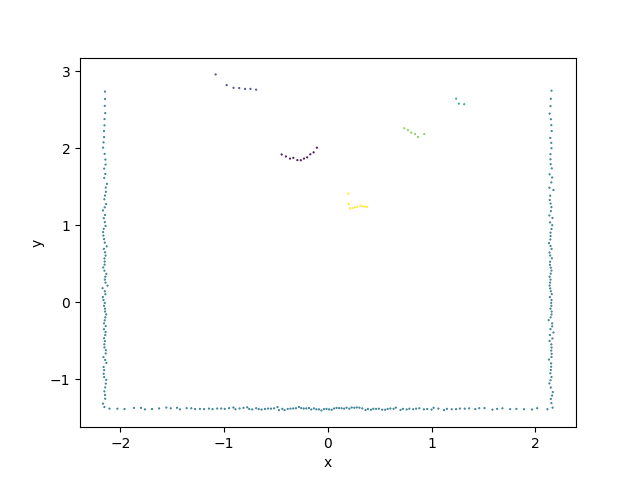
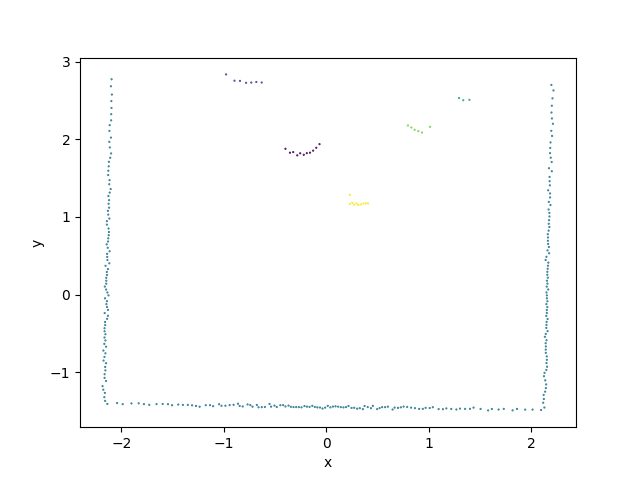
Started with RL

diff --git a/src/objectDetector.py b/src/objectDetector.py
@@ -79,19 +79,21 @@ class ObjectDetector:
             clusters.extend(tmp_clusters)
         return x, y, clusters
 
-    def transform_to_img(self, x, y):
+    def transform_to_img(self, x, y, clusters):
         import math
+        sizes = self.calculate_cluster_sizes(clusters)
 
         min_x = round(min(x), self.places)
         min_y = round(min(y), self.places)
 
         # Transform points to 0+ scale
-        x_, y_ = [], []
-        for x_coord, y_coord in zip(x, y):
+        x_, y_, clusters_ = [], [], []
+        for x_coord, y_coord, cluster in zip(x, y, clusters):
             x_coord = round(x_coord, self.places) + abs(min_x)
             y_coord = round(y_coord, self.places) + abs(min_y)
             x_.append(x_coord)
             y_.append(y_coord)
+            clusters_.append(cluster)
 
         # Calculate length, height
         max_x_ = max(x_)
@@ -108,7 +110,7 @@ class ObjectDetector:
 
         # Create a dictionary to save correspondence image coordinates -> pointcloud coordinates
         img_pc_coords = {}
-        for x_coord, y_coord in zip(x_, y_):
+        for x_coord, y_coord, c in zip(x_, y_, clusters_):
             # Get buckets
             x_bucket = int(x_coord)
             y_bucket = int(y_coord)
@@ -122,8 +124,11 @@ class ObjectDetector:
             assert type(x_img_coord) is int
             assert type(y_img_coord) is int
             image[x_img_coord, y_img_coord] = 255
-            key = (x_img_coord, y_img_coord)
-            img_pc_coords[key] = (x_coord, y_coord)
+
+            key = (y_img_coord, x_img_coord)
+            x_img_pc = x_coord - abs(min_x)
+            y_img_pc = y_coord - abs(min_y)
+            img_pc_coords[key] = (x_img_pc, y_img_pc, sizes[c])
 
         return image, img_pc_coords
 
@@ -136,11 +141,11 @@ class ObjectDetector:
 
     def find_cylinder(self, plot=False):
         x, y, clusters = self.exclude_walls(self.x, self.y, self.clusters)
-        image, img_pc_coords = self.transform_to_img(x, y)
+        image, img_pc_coords = self.transform_to_img(x, y, clusters)
         
         if plot:
             self.plot_pc_img(image)
-        cx, cy, radii = self.hough_transform(image)
+        cx, cy, radii = self.hough_transform(image, plot=plot)
         return self.transform_area_to_pc(cx, cy, radii, img_pc_coords)
 
     def detect_objs(self, x, y, clusters):
@@ -173,13 +178,16 @@ class ObjectDetector:
         return cx, cy, radii
 
     def transform_area_to_pc(self, cx, cy, radii, img_pc_coords):
-        x = [], y = []
+        x, y = [], []
+        cluster_size = 0
         for img_coords, pc_coords in img_pc_coords.items():
             # Point is in the selected area
-            if img_coords[0] in range(cx - radii, cx + radii) and img_coords[1] in range(cy - radii, cy + radii):
+            if img_coords[0] in range(int(cx - radii), int(cx + radii)) and img_coords[1] in range(int(cy - radii), int(cy + radii)):
                 x.append(pc_coords[0])
                 y.append(pc_coords[1])
-        return np.array((x, y)).T        
+                cluster_size = pc_coords[2]
+        X = np.array((x, y)).T
+        return X, cluster_size
 
     def calculate_point_dist(self, cluster, p):
         min_dist = 0
@@ -233,6 +241,10 @@ class ObjectDetector:
     def calculate_nr_clusters(self, clusters):
         nr_clusters = (max(clusters) + 1)
         return nr_clusters - min(clusters)
+
+    def calculate_cluster_sizes(self, clusters):
+        from collections import Counter
+        return Counter(clusters)
 
     def plot_clusters(self, x, y, clusters):
     #def plot_clusters(self, x, y, clusters, classification):

diff --git a/src/deepPusher.py b/src/deepPusher.py
@@ -1,17 +1,89 @@
 #!/usr/bin/env python3
-import rospy
+import gym
+from gym import wrappers
+
+import time
+import liveplot
+import numpy as np
+
+from rl import qlearn
+
+
+class Cylinder:
+    def __init__(self, points):
+        self.points = points
+
+    def set_points(self, points_n):
+        self.points = points_n
 
 class DeepPusher:
+    '''
+        DeepPusher class
+        @param objectDetector - class that provides the cylinder detection
+        @param state - variable that describes the behaviour that the robot must take
+
+        State 0 - Init state where we must search for a cylinder
+        State 1 - Registered a cylinder
+    '''
     def __init__(self, objectDetector):
         self.state = 0
         self.frequency = 10
         self.objDet = objectDetector
+        self.cylinder = Cylinder([])
 
-    def state_manager(self, counter):
-        if counter > 0 and counter % self.frequency:
-            self.state = 1
+    def registry_manager(self, counter):
+        if counter > 0 and counter % self.frequency == 0:
             self.register_cylinder()
+            self.state = 0
     
     def register_cylinder(self):
-        self.cylinder = self.objDet.find_cylinder()
-        self.state = 2
+        points, cluster_size = self.objDet.find_cylinder(plot=True)
+        if points.size > 3:
+            # TODO: nr img points?
+            if points.size >= cluster_size - 1:
+                self.cylinder.set_points(points)
+                print("[LOG] Registered cylinder", self.cylinder.points)
+            else:
+                print("[LOG] Not registering the cylinder as there were less points than expected for the cluster size.")
+        else: print("[LOG] Not registering the cylinder as there were not enough points for assessment.")
+
+    def render(self, x, render_skip=0, render_interval=50, render_episodes=10):
+        if (x % render_interval == 0) and (x != 0) and (x > render_skip):
+            self.env.render()
+        elif ((x - render_episodes) % render_interval == 0) and (x != 0) and (x > render_skip) and (render_episodes < x):
+            self.env.render(close=True)
+
+    def setup(self, out_dir='../tmp/experiments'):
+        env = gym.make('deep-rl-pusher')
+        self.outdir = out_dir
+        self.env = gym.wrappers.Monitor(env, self.outdir, force=True)
+        self.plotter = liveplot.LivePlot(self.outdir)
+
+        # TODO: Params
+        self.last_time_steps = np.ndarray(0)
+        self.qlearn = qlearn.QLearn(actions=range(self.env.action_space.n),
+                    alpha=0.1, gamma=0.9, epsilon=0.9)
+        self.initial_epsilon = self.qlearn.epsilon
+        self.epsilon_discount = 0.998
+        self.start_time = time.time()
+        self.total_episodes = 10000
+        self.highest_reward = 0
+
+    def cycle(self):
+        for x in range(self.total_episodes):
+            done = False
+            cumulated_reward = 0
+            observation = self.env.reset()
+
+            if self.qlearn.epsilon > 0.1:
+                self.qlearn.epsilon *= self.epsilon_discount
+            
+            self.render()
+            state = ''.join(map(str, observation))
+
+            for i in range(1000):
+                # Pick action based on current state
+                action = self.qlearn.chooseAction(state)
+
+                # Execute action and receive the reward
+                observation, reward, done, info = self.env.step()

diff --git a/src/main.py b/src/main.py
@@ -2,17 +2,17 @@
 import rospy
 
 from objectDetector import ObjectDetector
-from src.deepPusher import DeepPusher
+from deepPusher import DeepPusher
 
 if __name__ == '__main__':
-    rospy.init_node('object-detector', anonymous=True)
+    rospy.init_node('object_detector', anonymous=True)
     rate = rospy.Rate(10) # 10hz
     counter = 0
-    pusher = DeepPusher()
-    det = ObjectDetector()
 
+    det = ObjectDetector()
+    pusher = DeepPusher(det)
+    #rospy.spin()
     while not rospy.is_shutdown():
-        rospy.spin()
-        pusher.state_manager(counter)
+        pusher.registry_manager(counter)
         counter += 1
         rate.sleep()

diff --git a/setup.py b/setup.py
@@ -1,7 +1,8 @@
 ## ! DO NOT MANUALLY INVOKE THIS setup.py, USE CATKIN INSTEAD 
-from distutils.core import setup 
+from distutils.core import setup
 from catkin_pkg.python_setup import generate_distutils_setup 
- 
+
+
 # fetch values from package.xml 
 setup_args = generate_distutils_setup( 
     packages=['<deep-rl-pusher>'], 
